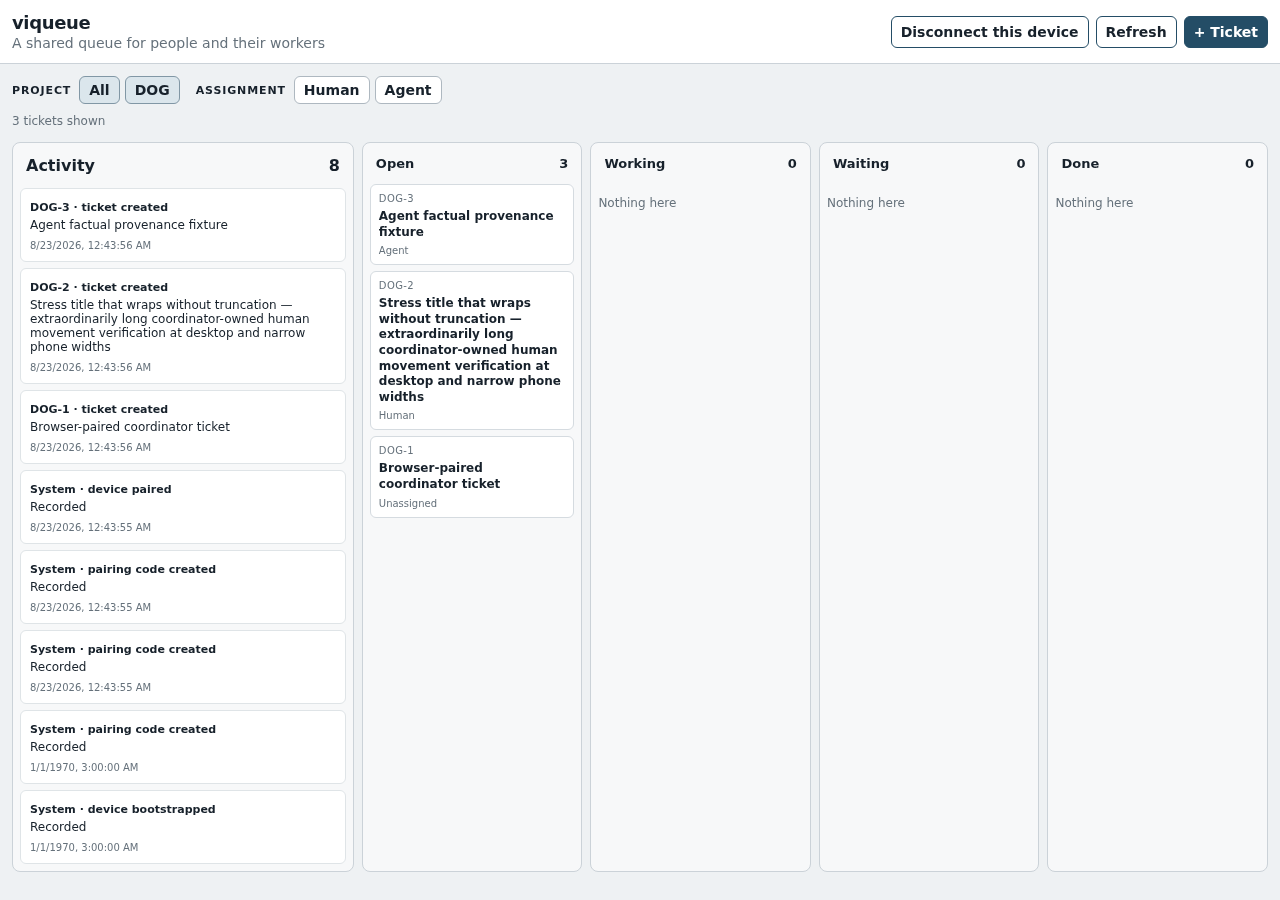
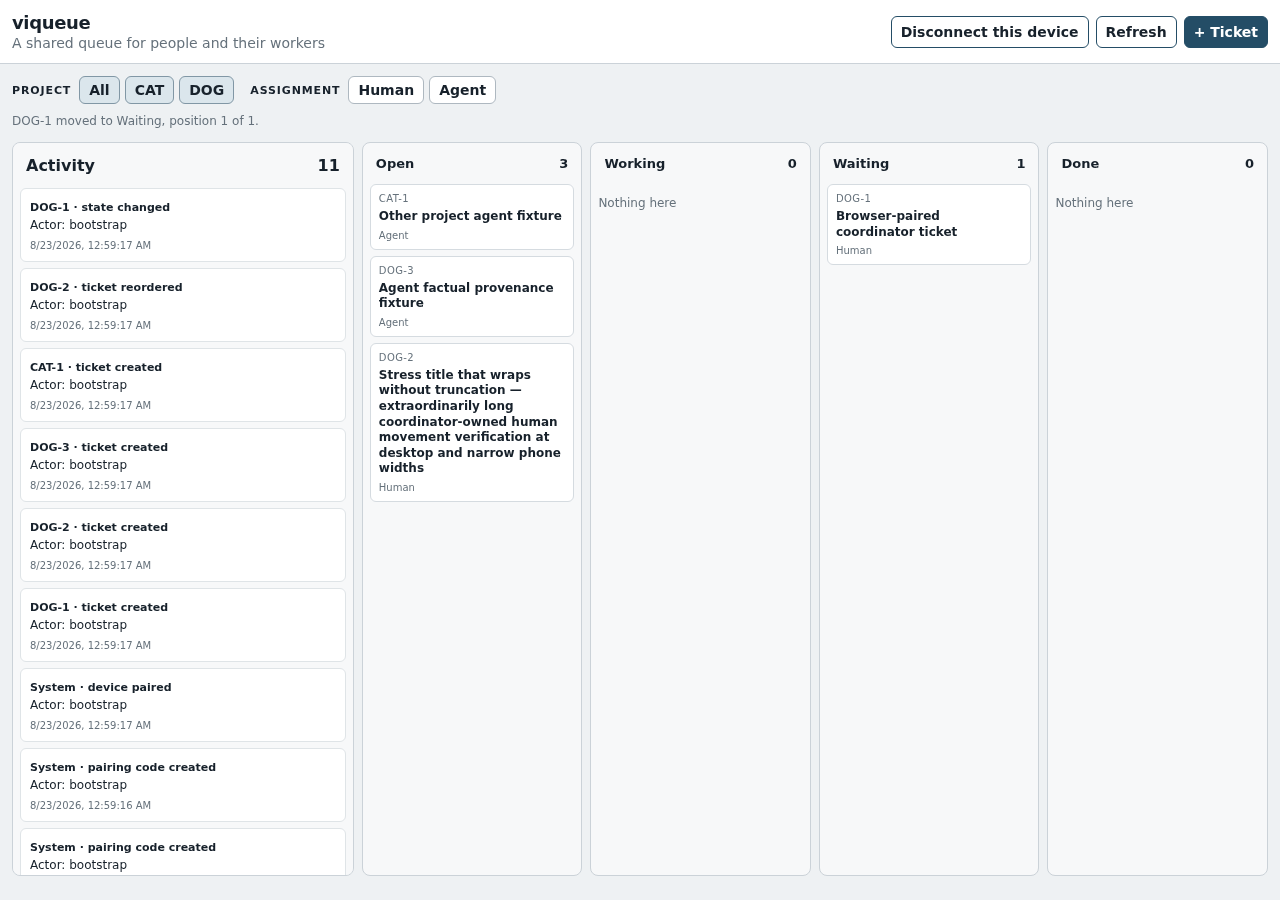
fix(viq-12): preserve global order in scoped board moves

diff --git a/test/browser-pairing-e2e.js b/test/browser-pairing-e2e.js
@@ -18,15 +18,15 @@ await store.close();
 store = new Store(storage); await store.init();
 const firstCode = await store.createPairingCode('bootstrap', { actor_id: 'bootstrap', intended_kind: 'coordinator', device_id: 'browser-one', device_name: 'Browser One' });
 const secondCode = await store.createPairingCode('bootstrap', { actor_id: 'bootstrap', intended_kind: 'coordinator', device_id: 'browser-two', device_name: 'Browser Two' });
-await store.createProject('DOG'); await store.close();
+await store.createProject('DOG'); await store.createProject('CAT'); await store.close();
 const socket = net.createServer(); await new Promise((resolve) => socket.listen(0, '127.0.0.1', resolve)); const port = socket.address().port; await new Promise((resolve) => socket.close(resolve));
 const base = `http://127.0.0.1:${port}`;
 const server = spawn(process.execPath, ['src/server.js', `--port=${port}`, `--storage=${storage}`], { stdio: 'ignore' });
 for (let i = 0; i < 100; i += 1) { try { if ((await fetch(`${base}/health`)).ok) break; } catch {} await new Promise((resolve) => setTimeout(resolve, 20)); }
 const api = async (method, route, body) => { const response = await fetch(`${base}${route}`, { method, headers: { 'content-type': 'application/json', authorization: `Bearer ${bootstrap.credential}` }, body: body === undefined ? undefined : JSON.stringify(body) }); const result = await response.json(); assert.ok(response.ok, `${method} ${route}: ${JSON.stringify(result)}`); return result; };
 const browser = await chromium.launch({ headless: true });
-const evidence = path.resolve(process.env.VIQ_EVIDENCE_DIR || 'artifacts/viq12-browser'); await mkdir(evidence, { recursive: true });
-const consoleErrors = [], pageErrors = [];
+const evidence = process.env.VIQ_EVIDENCE_DIR ? path.resolve(process.env.VIQ_EVIDENCE_DIR) : await mkdtemp(path.join(tmpdir(), 'viq12-browser-evidence-')); await mkdir(evidence, { recursive: true });
+const consoleErrors = [], pageErrors = []; const scenarios = {};
 try {
   const page = await browser.newPage({ viewport: { width: 1280, height: 900 } });
   page.on('console', (message) => { if (message.type() === 'error' && !message.text().startsWith('Failed to load resource:')) consoleErrors.push(message.text()); });
@@ -57,12 +57,27 @@ try {
   await page.getByRole('button', { name: '+ Ticket', exact: true }).click();
   await page.locator('#modal-content select[name="project"]').selectOption('DOG');
   await page.getByLabel('Ticket title').fill('Browser-paired coordinator ticket');
+  await page.locator('#modal-content select[name="assignment"]').selectOption('Human');
   await page.locator('#modal-content').getByRole('button', { name: 'Create ticket' }).click();
   await page.getByText('1 tickets shown').waitFor();
   await api('POST', '/v1/tickets', { project: 'DOG', title: 'Stress title that wraps without truncation — extraordinarily long coordinator-owned human movement verification at desktop and narrow phone widths', description: 'stress', assignment: 'Human' });
   await api('POST', '/v1/tickets', { project: 'DOG', title: 'Agent factual provenance fixture', assignment: 'Agent' });
-  await page.getByRole('button', { name: 'Refresh' }).click(); await page.getByText('3 tickets shown').waitFor();
-  await page.screenshot({ path: path.join(evidence, 'desktop-1280x900.png'), fullPage: true });
+  await api('POST', '/v1/tickets', { project: 'CAT', title: 'Other project agent fixture', assignment: 'Agent' });
+  await page.getByRole('button', { name: 'Refresh' }).click(); await page.getByText('4 tickets shown').waitFor();
+
+  const order = async () => page.locator('[data-surface="Open"] .ticket-card').evaluateAll((cards) => cards.map((card) => card.dataset.id));
+  await page.locator('.ticket-card[data-id="DOG-2"]').focus(); await page.keyboard.press('Alt+ArrowDown'); await page.getByText(/DOG-2 moved to Open, position 4 of 4/).waitFor();
+  assert.deepEqual(await order(), ['CAT-1','DOG-3','DOG-1','DOG-2']); assert.equal(await page.evaluate(() => document.activeElement?.dataset.id), 'DOG-2'); scenarios.keyboardReorder = true;
+  const beforeCancel = await order(); await page.locator('.ticket-card[data-id="DOG-1"]').focus(); await page.locator('.ticket-card[data-id="DOG-1"]').dispatchEvent('dragstart', { dataTransfer: await page.evaluateHandle(() => new DataTransfer()) }); await page.keyboard.press('Escape');
+  await page.getByText(/Move cancelled.*DOG-1 remains in Open/).waitFor(); assert.deepEqual(await order(), beforeCancel); assert.equal(await page.evaluate(() => document.activeElement?.dataset.id), 'DOG-1'); scenarios.cancellation = true;
+  await page.locator('.ticket-card[data-id="DOG-1"]').dragTo(page.locator('[data-surface="Waiting"] .card-stack')); await page.getByText(/DOG-1 moved to Waiting, position 1 of 1/).waitFor();
+  assert.equal(await page.locator('[data-surface="Waiting"] .ticket-card[data-id="DOG-1"]').count(), 1); assert.equal(await page.evaluate(() => document.activeElement?.dataset.id), 'DOG-1'); scenarios.dragMovement = true;
+
+  await page.getByRole('button', { name: 'CAT', exact: true }).click(); await page.getByRole('button', { name: 'Human', exact: true }).click();
+  assert.equal(await page.locator('.activity-list li strong').evaluateAll((nodes) => nodes.every((node) => node.textContent.startsWith('DOG-'))), true);
+  assert.equal(await page.locator('.activity-list').innerText().then((text) => text.includes('arbitrary') || text.includes('Stress title')), false); scenarios.activityBothFilters = true;
+  await page.getByRole('button', { name: 'CAT', exact: true }).click(); await page.getByRole('button', { name: 'Human', exact: true }).click();
+  await page.screenshot({ path: path.join(evidence, 'desktop-1280x900.png') });
 
   await page.getByRole('button', { name: 'Disconnect this device' }).click();
   await page.getByText('This browser is disconnected. The server-side device was not revoked.').waitFor();
@@ -72,22 +87,23 @@ try {
   await page.setViewportSize({ width: 390, height: 844 });
   assert.equal(await page.evaluate(() => document.documentElement.scrollWidth <= document.documentElement.clientWidth), true);
   await pair(secondCode.code, 'browser-two', 'Browser Two');
-  await page.getByText('3 tickets shown').waitFor();
+  await page.getByText('4 tickets shown').waitFor();
   assert.equal(await page.evaluate(() => document.documentElement.scrollWidth <= document.documentElement.clientWidth), true);
-  await page.screenshot({ path: path.join(evidence, 'phone-390x844.png'), fullPage: true });
+  await page.screenshot({ path: path.join(evidence, 'phone-390x844.png') });
   await page.setViewportSize({ width: 320, height: 800 });
   assert.equal(await page.evaluate(() => document.documentElement.scrollWidth <= document.documentElement.clientWidth), true);
-  assert.equal(await page.getByRole('tab').count(), 5); await page.screenshot({ path: path.join(evidence, 'phone-320x800.png'), fullPage: true });
+  assert.equal(await page.getByRole('tab').count(), 5); await page.screenshot({ path: path.join(evidence, 'phone-320x800.png') });
   await page.getByRole('tab', { name: /Open/ }).click();
-  await page.locator('.ticket-card[data-id="DOG-1"]').click();
+  await page.locator('.ticket-card[data-id="DOG-2"]').click();
   await page.locator('#modal[open]').waitFor(); assert.equal(await page.locator('#modal[open]').count(), 1);
-  await page.keyboard.press('Escape'); await page.locator('#modal').waitFor({ state: 'hidden' });
+  await page.keyboard.press('Escape'); await page.locator('#modal').waitFor({ state: 'hidden' }); assert.equal(await page.evaluate(() => document.activeElement?.dataset.id), 'DOG-2'); scenarios.modalFocusRestored = true;
   await api('POST', '/v1/devices/browser-two/revoke', {});
   await page.getByRole('button', { name: 'Refresh' }).click();
   await page.getByText('This device pairing is no longer valid. Pair this browser again.').waitFor();
   assert.equal(await page.evaluate(() => localStorage.getItem('viq.deviceCredential')), null);
   assert.equal(await page.getByRole('heading', { name: 'Pair this browser' }).isVisible(), true);
-  await writeFile(path.join(evidence, 'browser-status.json'), `${JSON.stringify({ viewports: ['1280x900','390x844','320x800'], consoleErrors, pageErrors }, null, 2)}\n`);
+  scenarios.pairingAndRevocation = true; scenarios.noHorizontalOverflow = true; scenarios.liveRegionAnnouncements = true;
+  await writeFile(path.join(evidence, 'browser-status.json'), `${JSON.stringify({ passed: Object.values(scenarios).every(Boolean), scenarios, viewports: [{ width: 1280, height: 900 }, { width: 390, height: 844 }, { width: 320, height: 800 }], consoleErrors, pageErrors }, null, 2)}\n`);
   assert.deepEqual(consoleErrors, []); assert.deepEqual(pageErrors, []);
   console.log(`BROWSER_PAIRING_E2E_OK evidence=${evidence}`);
 } finally { await browser.close(); server.kill(); await rm(work, { recursive: true, force: true }); }

diff --git a/test/viq12-human-ordering.test.js b/test/viq12-human-ordering.test.js
@@ -4,7 +4,7 @@ import { tmpdir } from 'node:os';
 import path from 'node:path';
 import test from 'node:test';
 import { Store } from '../src/store.js';
-import { applyTicketFilters } from '../web/ui-core.js';
+import { activityFact, applyActivityFilters, applyTicketFilters } from '../web/ui-core.js';
 
 async function fixture() {
   let now = 1000; const dir = await mkdtemp(path.join(tmpdir(), 'viq12-')); const store = new Store(path.join(dir, 'data.sqlite'), { now: () => now });
@@ -19,24 +19,48 @@ test('VIQ-12 global order is updated-first and filters reveal an OR subsequence'
   await store.createTicket({ project: 'OPS', title: 'second', assignment: 'Agent' }); advance();
   await store.createTicket({ project: 'VIQ', title: 'third', assignment: 'Human' });
   assert.deepEqual((await store.listBoardTickets()).map(({ id }) => id), ['VIQ-2', 'OPS-1', 'VIQ-1']);
-  const filtered = applyTicketFilters(await store.listBoardTickets(), new Set(['VIQ','OPS']), new Set(['Human']));
-  assert.deepEqual(filtered.map(({ id }) => id), ['VIQ-2', 'VIQ-1']);
+  assert.deepEqual(applyTicketFilters(await store.listBoardTickets(), new Set(['VIQ','OPS']), new Set(['Human'])).map(({ id }) => id), ['VIQ-2', 'VIQ-1']);
   advance(); await store.editTicket('VIQ-1', { actor: 'human', title: 'updated first' });
-  assert.deepEqual((await store.listBoardTickets()).map(({ id }) => id), ['VIQ-1', 'VIQ-2', 'OPS-1']);
-  await store.close();
+  assert.deepEqual((await store.listBoardTickets()).map(({ id }) => id), ['VIQ-1', 'VIQ-2', 'OPS-1']); await store.close();
 });
 
 test('VIQ-12 persists Human movement and manual reorder in every lane', async () => {
-  const { store } = await fixture();
-  for (const title of ['one','two','three']) await store.createTicket({ project: 'VIQ', title, assignment: 'Human' });
-  await store.moveHumanTicket('VIQ-1', { state: 'Working', index: 0, actor: 'human' });
-  await store.moveHumanTicket('VIQ-2', { state: 'Working', index: 0, actor: 'human' });
+  const { store } = await fixture(); for (const title of ['one','two','three']) await store.createTicket({ project: 'VIQ', title, assignment: 'Human' });
+  await store.moveHumanTicket('VIQ-1', { state: 'Working', index: 0, visible_ids: [], actor: 'human' });
+  await store.moveHumanTicket('VIQ-2', { state: 'Working', index: 0, visible_ids: ['VIQ-1'], actor: 'human' });
   assert.deepEqual((await store.listBoardTickets()).filter(({ state }) => state === 'Working').map(({ id }) => id), ['VIQ-2','VIQ-1']);
-  await store.moveHumanTicket('VIQ-1', { state: 'Working', index: 0, actor: 'human' });
+  await store.moveHumanTicket('VIQ-1', { state: 'Working', index: 0, visible_ids: ['VIQ-2'], actor: 'human' });
   assert.deepEqual((await store.listBoardTickets()).filter(({ state }) => state === 'Working').map(({ id }) => id), ['VIQ-1','VIQ-2']);
-  for (const lane of ['Waiting','Done','Open']) assert.equal((await store.moveHumanTicket('VIQ-1', { state: lane, index: 0, actor: 'human' })).state, lane);
-  await assert.rejects(store.moveHumanTicket('VIQ-3', { state: 'Open', index: -1, actor: 'human' }), (error) => error.code === 'invalid_position');
+  for (const lane of ['Waiting','Done','Open']) assert.equal((await store.moveHumanTicket('VIQ-1', { state: lane, index: 0, visible_ids: [], actor: 'human' })).state, lane);
+  await assert.rejects(store.moveHumanTicket('VIQ-3', { state: 'Open', index: -1, visible_ids: [], actor: 'human' }), (error) => error.code === 'invalid_position');
   const agent = await store.createTicket({ project: 'OPS', title: 'agent', assignment: 'Agent' });
-  await assert.rejects(store.moveHumanTicket(agent.id, { state: 'Done', index: 0, actor: 'human' }), (error) => error.code === 'human_assignment_required');
-  await store.close();
+  await assert.rejects(store.moveHumanTicket(agent.id, { state: 'Done', index: 0, visible_ids: [], actor: 'human' }), (error) => error.code === 'human_assignment_required'); await store.close();
+});
+
+test('VIQ-12 filtered reorder changes the visible subsequence and preserves hidden relative order', async () => {
+  const { store } = await fixture();
+  await store.createTicket({ project: 'VIQ', title: 'visible low', assignment: 'Human' }); await store.createTicket({ project: 'OPS', title: 'hidden low', assignment: 'Agent' });
+  await store.createTicket({ project: 'VIQ', title: 'visible high', assignment: 'Human' }); await store.createTicket({ project: 'OPS', title: 'hidden high', assignment: 'Agent' });
+  assert.deepEqual((await store.listBoardTickets()).map(({ id }) => id), ['OPS-2','VIQ-2','OPS-1','VIQ-1']);
+  await store.moveHumanTicket('VIQ-1', { state: 'Open', index: 0, visible_ids: ['VIQ-2'], actor: 'human' });
+  assert.deepEqual((await store.listBoardTickets()).map(({ id }) => id), ['OPS-2','VIQ-1','VIQ-2','OPS-1']); await store.close();
+});
+
+test('VIQ-12 reorder preserves claimed and all other unaffected relative positions', async () => {
+  const { store } = await fixture(); await store.createActor({ id: 'worker', name: 'Worker', kind: 'agent' });
+  const code = await store.createPairingCode('human', { actor_id: 'worker', intended_kind: 'worker', device_id: 'worker-device', device_name: 'Worker device' });
+  const worker = await store.pairDevice({ code: code.code, id: 'worker-device', name: 'Worker device' });
+  await store.createTicket({ project: 'VIQ', title: 'human low', assignment: 'Human' }); const claimed = await store.createTicket({ project: 'OPS', title: 'claimed middle', assignment: 'Agent' });
+  await store.claim(claimed.id, { device: worker.device.id }); await store.createTicket({ project: 'VIQ', title: 'human high', assignment: 'Human' }); await store.createTicket({ project: 'OPS', title: 'unclaimed high', assignment: 'Agent' });
+  const before = (await store.listBoardTickets()).map(({ id }) => id); await store.moveHumanTicket('VIQ-1', { state: 'Open', index: 0, visible_ids: ['VIQ-2'], actor: 'human' });
+  const after = (await store.listBoardTickets()).map(({ id }) => id); assert.deepEqual(after.filter((id) => id !== 'VIQ-1'), before.filter((id) => id !== 'VIQ-1')); assert.equal((await store.getTicket(claimed.id)).state, 'Working'); await store.close();
+});
+
+test('VIQ-12 Activity obeys both scopes and projects only minimal facts', () => {
+  const tickets = [{ id: 'VIQ-1', project: 'VIQ', assignment: 'Human' }, { id: 'OPS-1', project: 'OPS', assignment: 'Agent' }, { id: 'VIQ-2', project: 'VIQ', assignment: 'Agent' }];
+  const events = [{ ticket_id: null, project: null, type: 'device_paired', actor: 'admin', message: 'secret prose' }, { ticket_id: 'VIQ-1', project: 'VIQ', type: 'progress', actor: 'human', message: 'arbitrary human prose' }, { ticket_id: 'OPS-1', project: 'OPS', type: 'claimed', actor: 'agent' }, { ticket_id: 'VIQ-2', project: 'VIQ', type: 'ticket_created', actor: null }];
+  const projects = new Set(['VIQ']); const roles = new Set(['Human']); const visible = applyTicketFilters(tickets, projects, roles);
+  assert.deepEqual(applyActivityFilters(events, visible, projects, roles, ['VIQ','OPS']).map((event) => event.ticket_id), ['VIQ-1']);
+  assert.deepEqual(activityFact(events[1]), { heading: 'VIQ-1 · progress', detail: 'Actor: human' }); assert.equal(JSON.stringify(activityFact(events[1])).includes('arbitrary human prose'), false);
+  assert.equal(applyActivityFilters(events, tickets, new Set(['VIQ','OPS']), new Set(), ['VIQ','OPS']).length, 4);
 });

diff --git a/web/app.js b/web/app.js
@@ -1,4 +1,4 @@
-import { applyTicketFilters, createModalController, reconcileProjectSelection } from './ui-core.js';
+import { activityFact, applyActivityFilters, applyTicketFilters, createModalController, reconcileProjectSelection } from './ui-core.js';
 
 const $ = (selector) => document.querySelector(selector);
 const credentialKey = 'viq.deviceCredential';
@@ -28,7 +28,7 @@ function renderFilters() {
   for (const role of ['Human', 'Agent']) roles.append(chip(role, state.selectedRoles.has(role), () => { state.selectedRoles.has(role) ? state.selectedRoles.delete(role) : state.selectedRoles.add(role); renderFilters(); renderBoard(); }));
 }
 const visibleTickets = () => applyTicketFilters(state.tickets, state.selectedProjects, state.selectedRoles);
-function filteredEvents(visible) { const ids = new Set(visible.map(({ id }) => id)); return state.events.filter((event) => !event.ticket_id || ids.has(event.ticket_id)).toReversed(); }
+function filteredEvents(visible) { return applyActivityFilters(state.events, visible, state.selectedProjects, state.selectedRoles, state.projects.map(({ key }) => key)).toReversed(); }
 function announce(message) { $('#status').textContent = message; }
 function openTicket(ticket, trigger) {
   const content = document.createElement('div'); content.className = 'ticket-summary';
@@ -54,12 +54,13 @@ function cardFor(ticket, laneTickets, index) {
     if (event.key === 'ArrowLeft') { nextState = lanes[Math.max(0, lanes.indexOf(ticket.state) - 1)]; nextIndex = 0; }
     if (event.key === 'ArrowRight') { nextState = lanes[Math.min(lanes.length - 1, lanes.indexOf(ticket.state) + 1)]; nextIndex = 0; }
     if (nextState === ticket.state && nextIndex === index) return;
-    await moveTicket(ticket.id, nextState, nextIndex);
+    const target = visibleTickets().filter((item) => item.state === nextState && item.id !== ticket.id);
+    await moveTicket(ticket.id, nextState, nextIndex, target.map(({ id }) => id));
   }));
   return card;
 }
-async function moveTicket(id, lane, index) {
-  await request(`/v1/tickets/${encodeURIComponent(id)}/board-position`, { method: 'POST', body: JSON.stringify({ state: lane, index }) });
+async function moveTicket(id, lane, index, visibleIds = visibleTickets().filter((ticket) => ticket.state === lane && ticket.id !== id).map(({ id }) => id)) {
+  await request(`/v1/tickets/${encodeURIComponent(id)}/board-position`, { method: 'POST', body: JSON.stringify({ state: lane, index, visible_ids: visibleIds }) });
   state.drag = null; await refresh(id); const laneTickets = visibleTickets().filter((ticket) => ticket.state === lane); const position = laneTickets.findIndex((ticket) => ticket.id === id) + 1; announce(`${id} moved to ${lane}, position ${position} of ${laneTickets.length}.`);
 }
 function laneSurface(name, tickets) {
@@ -76,7 +77,7 @@ function laneSurface(name, tickets) {
 function activitySurface(events) {
   const section = document.createElement('section'); section.className = 'surface activity'; section.dataset.surface = 'Activity'; section.setAttribute('aria-label', 'Activity'); section.innerHTML = `<h2>Activity <span>${events.length}</span></h2>`;
   const list = document.createElement('ol'); list.className = 'activity-list';
-  for (const event of events) { const item = document.createElement('li'); const ticket = state.tickets.find(({ id }) => id === event.ticket_id); item.innerHTML = '<strong></strong><p></p><small></small>'; item.children[0].textContent = `${event.ticket_id || 'System'} · ${event.type.replaceAll('_', ' ')}`; item.children[1].textContent = event.message || ticket?.title || 'Recorded'; item.children[2].textContent = new Date(event.created_at).toLocaleString(); list.append(item); }
+  for (const event of events) { const item = document.createElement('li'); const fact = activityFact(event); item.innerHTML = '<strong></strong><p></p><small></small>'; item.children[0].textContent = fact.heading; item.children[1].textContent = fact.detail; item.children[2].textContent = new Date(event.created_at).toLocaleString(); list.append(item); }
   if (!events.length) list.innerHTML = '<li class="empty">No matching activity yet.</li>'; section.append(list); return section;
 }
 function renderBoard(focusId = null) {

diff --git a/src/store.js b/src/store.js
@@ -419,21 +419,38 @@ export class Store {
     this.#event(id, ticket.project, 'state_changed', actor.id, `Moved from ${ticket.state} to ${state}.`, { from: ticket.state, to: state });
     return this.#ticket(id);
   }); }
-  async moveHumanTicket(id, { state, index, actor: rawActor }) { return this.#transaction(() => {
+  async moveHumanTicket(id, { state, index, visible_ids: rawVisibleIds, actor: rawActor }) { return this.#transaction(() => {
     const ticket = this.#mutableTicket(id); const actor = this.#workflowActor(rawActor);
     if (actor.kind !== 'human') throw new DomainError(403, 'human_required', 'a human actor is required');
     if (ticket.assignment !== 'Human') throw new DomainError(409, 'human_assignment_required', 'only Human-assigned tickets can be moved on the board');
     if (!['Open','Working','Waiting','Done'].includes(state)) throw new DomainError(400, 'invalid_state', 'state must be Open, Working, Waiting, or Done');
     const position = Number(index); if (!Number.isSafeInteger(position) || position < 0) throw new DomainError(400, 'invalid_position', 'index must be a non-negative integer');
+    if (!Array.isArray(rawVisibleIds) || rawVisibleIds.some((item) => typeof item !== 'string')) throw new DomainError(400, 'invalid_visible_order', 'visible_ids must be the ordered visible target-lane ticket ids');
+    const visibleIds = rawVisibleIds.filter((ticketId) => ticketId !== id);
+    if (new Set(visibleIds).size !== visibleIds.length || position > visibleIds.length) throw new DomainError(400, 'invalid_visible_order', 'visible_ids and index must describe one ordered visible subsequence');
     if (ticket.claim) throw new DomainError(409, 'active_claim', 'claimed tickets cannot be moved by the human board');
+    const global = this.#db.prepare('SELECT id,board_state FROM tickets WHERE deleted_at IS NULL AND archived_at IS NULL ORDER BY board_order DESC,id').all();
+    const targetIds = global.filter((row) => row.board_state === state && row.id !== id).map((row) => row.id);
+    let cursor = -1;
+    for (const visibleId of visibleIds) {
+      const next = targetIds.indexOf(visibleId, cursor + 1);
+      if (next < 0) throw new DomainError(409, 'stale_visible_order', 'visible_ids are no longer an ordered target-lane subsequence');
+      cursor = next;
+    }
+    const ordered = global.map((row) => row.id).filter((ticketId) => ticketId !== id);
+    let insertion;
+    if (position < visibleIds.length) insertion = ordered.indexOf(visibleIds[position]);
+    else if (visibleIds.length) insertion = ordered.indexOf(visibleIds.at(-1)) + 1;
+    else {
+      const targetPositions = ordered.map((ticketId, offset) => targetIds.includes(ticketId) ? offset : -1).filter((offset) => offset >= 0);
+      insertion = targetPositions.length ? targetPositions.at(-1) + 1 : 0;
+    }
+    ordered.splice(insertion, 0, id);
     const storedState = state === 'Done' ? 'done' : state === 'Waiting' ? 'review' : 'open';
     this.#db.prepare('UPDATE tickets SET state=?,board_state=? WHERE id=?').run(storedState, state, id);
     if (ticket.state !== state) this.#event(id, ticket.project, 'state_changed', actor.id, `Moved from ${ticket.state} to ${state}.`, { from: ticket.state, to: state });
     else this.#event(id, ticket.project, 'ticket_reordered', actor.id, `Moved within ${state}.`, { state });
-    const ids = this.#db.prepare("SELECT id FROM tickets WHERE board_state=? AND id<>? AND deleted_at IS NULL AND archived_at IS NULL AND NOT EXISTS(SELECT 1 FROM claims c WHERE c.ticket_id=tickets.id AND c.released_at IS NULL) ORDER BY board_order DESC,id").all(state, id).map((row) => row.id);
-    ids.splice(Math.min(position, ids.length), 0, id);
-    const base = Number(this.#db.prepare('SELECT COALESCE(MAX(board_order),0) value FROM tickets').get().value) + ids.length + 1;
-    ids.forEach((ticketId, offset) => this.#db.prepare('UPDATE tickets SET board_order=? WHERE id=?').run(base - offset, ticketId));
+    ordered.forEach((ticketId, offset) => this.#db.prepare('UPDATE tickets SET board_order=? WHERE id=?').run(ordered.length - offset, ticketId));
     return this.#ticket(id);
   }); }
 

diff --git a/test/human-history-ui.test.js b/test/human-history-ui.test.js
@@ -53,25 +53,23 @@ test('semantic All projects includes projects discovered by refresh', () => {
   assert.deepEqual([...reconcileProjectSelection(['LIFE', 'VIQ'], ['LIFE', 'NEW', 'VIQ'], new Set(['VIQ']))], ['VIQ']);
 });
 
-test.skip('project and assignee filters compose, including unassigned tickets', () => {
+test('project and Human/Agent filters compose with OR within assignment choices', () => {
   const tickets = [
-    { id: 'LIFE-1', project: 'LIFE', assignee: { type: 'actor', id: 'maks' } },
-    { id: 'VIQ-1', project: 'VIQ', assignee: { type: 'role', id: 'workers' } },
-    { id: 'VIQ-2', project: 'VIQ', assignee: null }
+    { id: 'LIFE-1', project: 'LIFE', assignment: 'Human' },
+    { id: 'VIQ-1', project: 'VIQ', assignment: 'Agent' },
+    { id: 'VIQ-2', project: 'VIQ', assignment: 'Human' }
   ];
-  assert.deepEqual(applyTicketFilters(tickets, new Set(['VIQ']), new Set(['role:workers'])).map((ticket) => ticket.id), ['VIQ-1']);
-  assert.deepEqual(applyTicketFilters(tickets, new Set(['VIQ']), new Set(['none'])).map((ticket) => ticket.id), ['VIQ-2']);
+  assert.deepEqual(applyTicketFilters(tickets, new Set(['VIQ']), new Set(['Human','Agent'])).map((ticket) => ticket.id), ['VIQ-1','VIQ-2']);
+  assert.deepEqual(applyTicketFilters(tickets, new Set(['VIQ']), new Set(['Human'])).map((ticket) => ticket.id), ['VIQ-2']);
 });
 
-test.skip('filter chips expose accessible selected state and empty reset', async () => {
+test('filter chips expose accessible selected state and empty reset', async () => {
   const [html, app] = await Promise.all([readFile('web/index.html', 'utf8'), readFile('web/app.js', 'utf8')]);
-  for (const id of ['project-chips', 'assignee-chips', 'reset-filters']) assert.match(html, new RegExp(`id="${id}"`));
-  assert.match(app, /aria-pressed/);
-  assert.doesNotMatch(app, /contextmenu/);
-  assert.match(`${html}${app}`, /No tickets match/);
+  for (const id of ['project-chips', 'role-chips', 'reset-filters']) assert.match(html, new RegExp(`id="${id}"`));
+  assert.match(app, /aria-pressed/); assert.doesNotMatch(app, /contextmenu/); assert.match(`${html}${app}`, /No tickets match/);
 });
 
-test.skip('human ticket UI exposes every field, direct state, progress, archive, restore, delete, and attributed timeline', async () => {
+test.skip('VIQ-13+ excluded: full history/archive/admin ticket mutation surface', { skip: 'VIQ-12 replacement coverage is browser-pairing E2E for board filters, movement, activity, and modal accessibility' }, async () => {
   const app = await readFile('web/app.js', 'utf8');
   for (const term of ['Edit ticket', 'Ticket title', 'Project', 'Assignee', 'State', 'Add progress', 'Archive', 'Restore', 'Delete ticket', 'Confirm delete']) assert.match(app, new RegExp(term));
   assert.match(app, /\/state/);
@@ -92,14 +90,14 @@ test('browser acceptance keeps full desktop coverage and a representative non-du
     assert.ok(mobile.includes(interaction), `missing mobile interaction: ${interaction}`);
 });
 
-test.skip('nested modal flows restore their prior view before returning focus to an in-dialog trigger', async () => {
+test.skip('VIQ-14 excluded: nested question/approval modal flows', { skip: 'VIQ-12 modal focus restoration is covered behaviorally in browser-pairing E2E' }, async () => {
   const app = await readFile('web/app.js', 'utf8');
   assert.match(app, /modalStack/);
   assert.match(app, /restoreModal/);
   assert.match(app, /\.dismiss\(\)/);
 });
 
-test.skip('ticket, question, project, and ticket-create flows share one modal shell', async () => {
+test.skip('VIQ-13+ excluded: Admin/project/question full modal surface', { skip: 'VIQ-12 ticket create/summary modal focus is covered behaviorally in browser-pairing E2E' }, async () => {
   const [html, app] = await Promise.all([readFile('web/index.html', 'utf8'), readFile('web/app.js', 'utf8')]);
   assert.equal((html.match(/<dialog\b/g) || []).length, 1);
   for (const id of ['open-project-create', 'open-ticket-create', 'modal']) assert.match(html, new RegExp(`id="${id}"`));

diff --git a/test/viq-command-v3.test.js b/test/viq-command-v3.test.js
@@ -16,7 +16,7 @@ test('bound issuance and code-only pairing select exact actor kind id name and r
 
 test('legacy nullable pairing requires explicit identity',async()=>{const f=await fixture();const issued=await f.store.createPairingCode('coord',{intended_kind:'worker'});await assert.rejects(f.store.pairDevice({code:issued.code}),e=>e.code==='invalid_device');assert.equal((await f.store.pairDevice({code:issued.code,id:'legacy',name:'Legacy'})).device.id,'legacy');await f.store.close()});
 
-test.skip('new admin API requires and UI sends actor kind device id and name',async t=>{const f=await fixture();await f.store.close();const app=await createApp({storage:f.db});await new Promise(r=>app.listen(0,'127.0.0.1',r));t.after(()=>app.close());const post=async body=>{const r=await fetch(`http://127.0.0.1:${app.address().port}/v1/pairing-codes`,{method:'POST',headers:{authorization:`Bearer ${f.coord.credential}`,'content-type':'application/json'},body:JSON.stringify(body)});return{status:r.status,body:await r.json()}};assert.equal((await post({intended_kind:'worker'})).status,400);assert.equal((await post({actor_id:'agent-a',intended_kind:'worker',device_id:'tower-a',device_name:'Tower A'})).status,201);const ui=await readFile(new URL('../web/app.js',import.meta.url),'utf8');for(const field of['actor_id','intended_kind','device_id','device_name'])assert.match(ui,new RegExp(field))});
+test.skip('VIQ-13+ excluded: Admin device issuance UI fields',{skip:'VIQ-12 paired-board flow is covered by browser-pairing E2E'},async t=>{const f=await fixture();await f.store.close();const app=await createApp({storage:f.db});await new Promise(r=>app.listen(0,'127.0.0.1',r));t.after(()=>app.close());const post=async body=>{const r=await fetch(`http://127.0.0.1:${app.address().port}/v1/pairing-codes`,{method:'POST',headers:{authorization:`Bearer ${f.coord.credential}`,'content-type':'application/json'},body:JSON.stringify(body)});return{status:r.status,body:await r.json()}};assert.equal((await post({intended_kind:'worker'})).status,400);assert.equal((await post({actor_id:'agent-a',intended_kind:'worker',device_id:'tower-a',device_name:'Tower A'})).status,201);const ui=await readFile(new URL('../web/app.js',import.meta.url),'utf8');for(const field of['actor_id','intended_kind','device_id','device_name'])assert.match(ui,new RegExp(field))});
 
 test('credential JSON is per-home, atomic, private, reusable, and isolated',async()=>{const a=await realpath(await mkdtemp(path.join(tmpdir(),'viq-home-a-'))),b=await realpath(await mkdtemp(path.join(tmpdir(),'viq-home-b-'))),oldHome=process.env.HOME,oldConfig=process.env.XDG_CONFIG_HOME;try{delete process.env.XDG_CONFIG_HOME;process.env.HOME=a;const first=`tower.${'a'.repeat(48)}`;saveCredential(first);assert.equal(loadCredential(),first);assert.equal((await stat(path.dirname(defaultCredentialPath()))).mode&0o777,0o700);assert.equal((await stat(defaultCredentialPath())).mode&0o777,0o600);const second=`tower.${'b'.repeat(48)}`;saveCredential(second);assert.equal(loadCredential(),second);process.env.HOME=b;assert.throws(()=>loadCredential(),/credential/);process.env.HOME=a;assert.equal(loadCredential(),second)}finally{if(oldHome===undefined)delete process.env.HOME;else process.env.HOME=oldHome;if(oldConfig===undefined)delete process.env.XDG_CONFIG_HOME;else process.env.XDG_CONFIG_HOME=oldConfig}});
 

diff --git a/test/coordinator-controls.test.js b/test/coordinator-controls.test.js
@@ -20,7 +20,7 @@ test('bounded coordinator controls remain coordinator-only at the API boundary',
   assert.equal((await call(coordinator.credential, 'POST', '/v1/pairing-codes', { intended_kind: 'worker', actor_id: 'coord', device_id: 'issued-worker', device_name: 'Issued Worker' })).status, 201);
 });
 
-test.skip('browser exposes only the named pairing, flat-role, membership, answer, and block controls', async () => {
+test.skip('VIQ-13+ excluded: browser Admin, role, question, and block controls', { skip: 'VIQ-12 pairing and board replacement coverage is in browser-pairing E2E' }, async () => {
   const [html, app] = await Promise.all([readFile(new URL('../web/index.html', import.meta.url), 'utf8'), readFile(new URL('../web/app.js', import.meta.url), 'utf8')]);
   assert.match(html, />Admin</); assert.match(app, /intended_kind/); assert.match(app, /role-create-form/); assert.match(app, /role-membership-form/); assert.ok(app.includes('questions/${question.id}/answer')); assert.ok(app.includes('blocks/${encodeURIComponent(block.id)}/resolve'));
   assert.doesNotMatch(`${html}\n${app}`, /OAuth|SSO|permission bundle|role hierarchy|authority graph/i);

diff --git a/web/ui-core.js b/web/ui-core.js
@@ -14,6 +14,19 @@ export function applyTicketFilters(tickets, selectedProjects, selectedRoles) {
   ));
 }
 
+export function applyActivityFilters(events, visibleTickets, selectedProjects, selectedRoles, allProjectKeys) {
+  const scoped = selectedRoles.size > 0 || selectedProjects.size !== allProjectKeys.length || allProjectKeys.some((key) => !selectedProjects.has(key));
+  if (!scoped) return events;
+  const visibleIds = new Set(visibleTickets.map(({ id }) => id));
+  return events.filter((event) => event.ticket_id && visibleIds.has(event.ticket_id));
+}
+
+export function activityFact(event) {
+  const subject = event.ticket_id || (event.project ? `Project ${event.project}` : 'System');
+  const action = String(event.type).replaceAll('_', ' ');
+  return { heading: `${subject} · ${action}`, detail: event.actor ? `Actor: ${event.actor}` : 'Actor: system' };
+}
+
 export function selectProject(projects, selected, project) {
   const next = new Set(selected); next.has(project) ? next.delete(project) : next.add(project); return next;
 }

diff --git a/test/dogfood-v2.test.js b/test/dogfood-v2.test.js
@@ -52,7 +52,7 @@ test('project-scoped next and claimNext use the immutable canonical project', as
   await f.store.close();
 });
 
-test.skip('compact board contract is four columns, OR project filters, deduplicated tickets and popup surfaces', async () => {
+test.skip('VIQ-13+ excluded: legacy compact Admin/archive/question popup contract', { skip: 'VIQ-12 four-lane filters and modal behavior have current unit and browser E2E coverage' }, async () => {
   assert.deepEqual(boardColumns.map((column) => column[1]), ['To do','Working','Review','Done']);
   assert.equal(boardProjection({ state: 'open', claim: null }), 'todo'); assert.equal(boardProjection({ state: 'open', claim: {} }), 'working');
   const ticket = { id: 'ONE-1', project: 'ONE', projects: ['ONE','TWO'], assignee: null };
